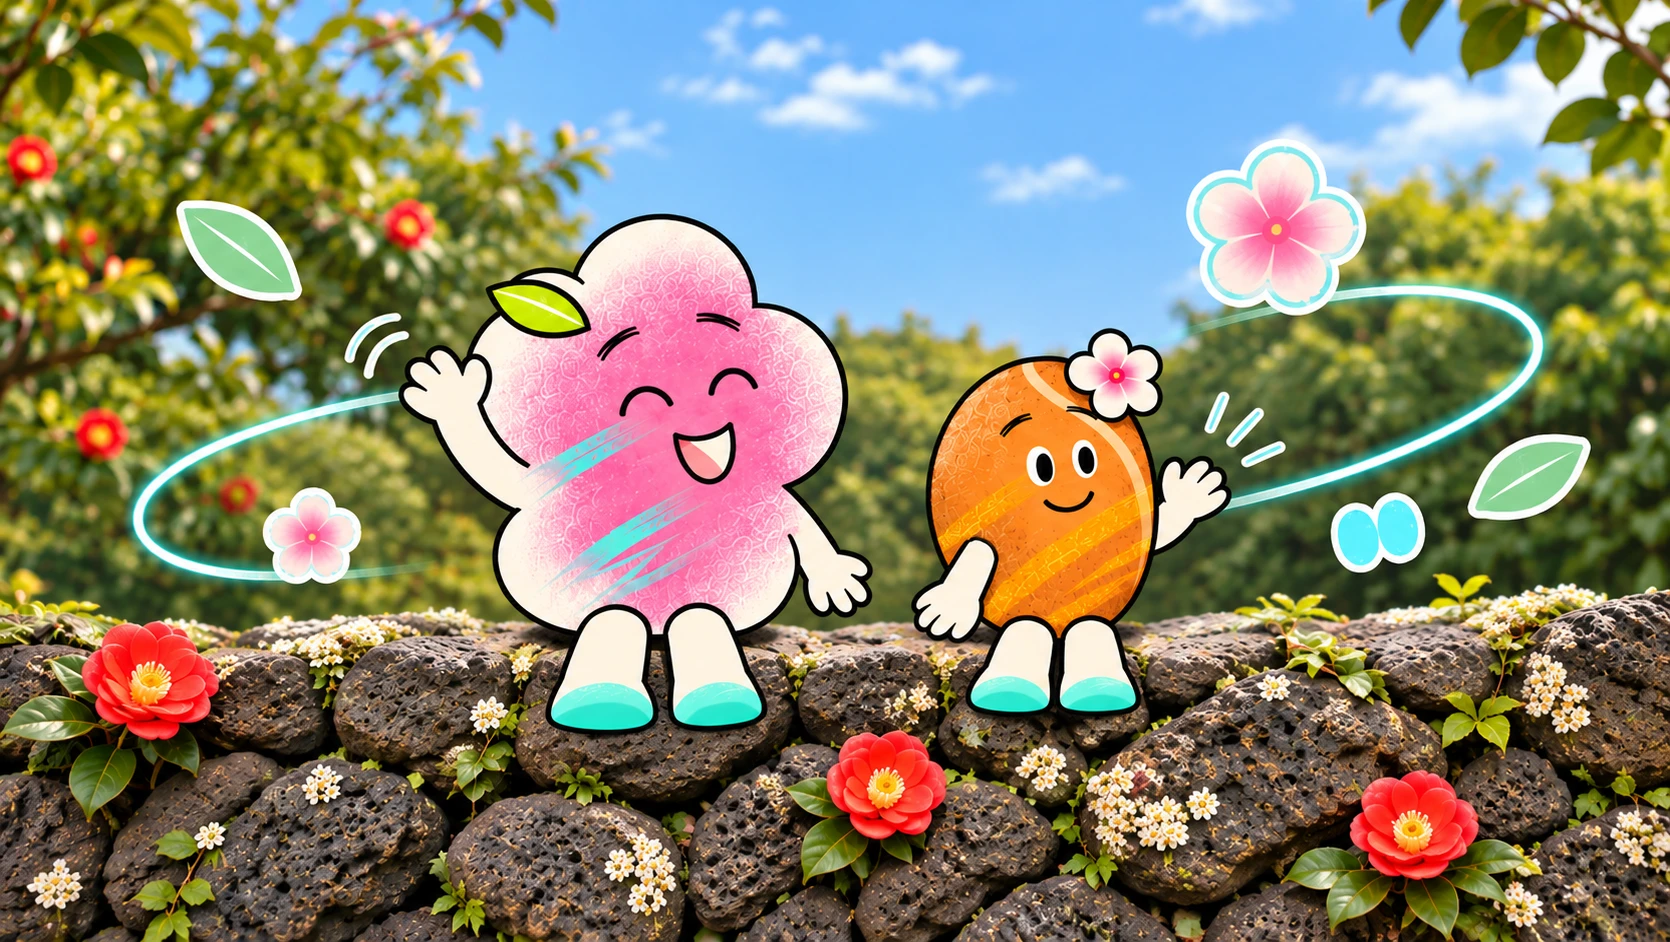
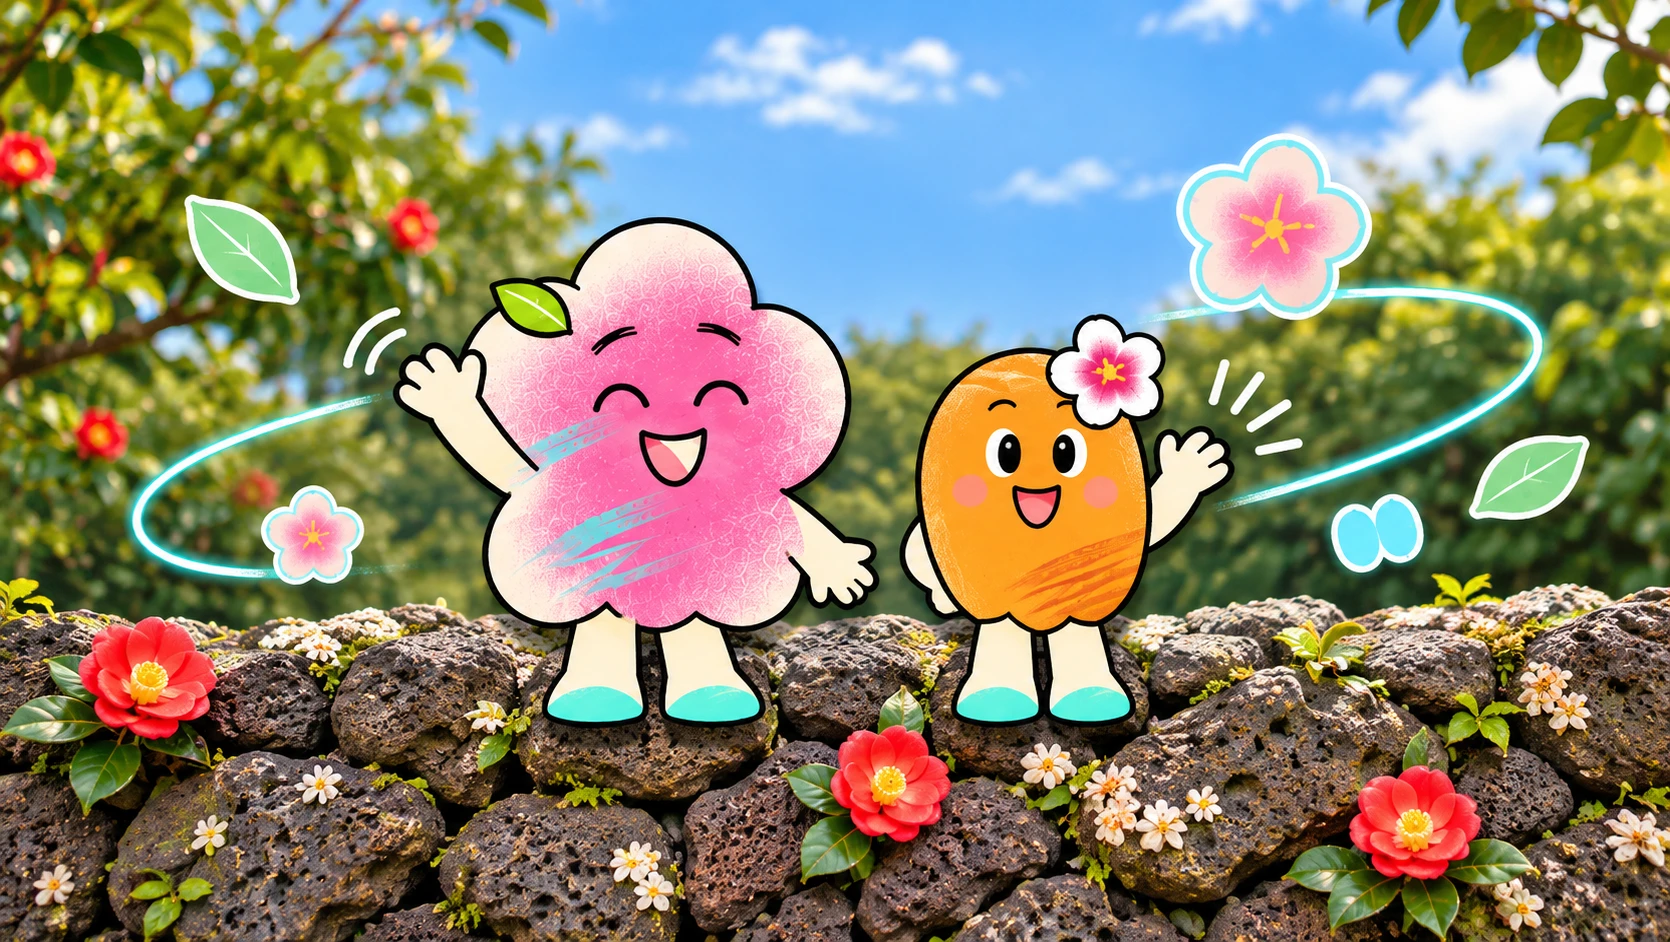
섹션 문구·순서 정리, 체험·캐릭터 이미지 교체
- 섹션 순서: 체험을 굿즈 앞으로 (헤더 메뉴 포함)
- 방문 안내: BLOOM YOUR WAY POP-UP 카드와 관련 문구 삭제, 지도 안내만 유지
- 동백마을: 제목 마침표 삭제, 피오·토리 이름 핑크·소개 본문색, 안내 문구 볼드, 새 돌담 이미지(테두리 디졸브 없이)
- 체험: 동백오일 만들기(토리), 고사리 파스타(피오) 이미지 교체
- 굿즈: 상단 피오 삭제, 제목 "오직 동백마을에서 만나는 콜라보 한정판 굿즈", 설명 문구 변경
- 콜라보: 굿즈 문구 제목을 작게·핑크로, "A2O LITE"에 네온 빛 추가

diff --git a/lib/bloom/content.ts b/lib/bloom/content.ts
@@ -66,7 +66,7 @@ export const ui = {
   story: {
     eyebrow: { ko: "DONGBAEK VILLAGE", en: "DONGBAEK VILLAGE" },
     place: { ko: "제주 · 동백마을", en: "Jeju · Dongbaek Village" },
-    title: { ko: "FIND YOUR BLOOM.", en: "FIND YOUR BLOOM." },
+    title: { ko: "FIND YOUR BLOOM", en: "FIND YOUR BLOOM" },
     lead: {
       ko: "제주에서 너만의 동백을 발견해.",
       en: "Discover your own camellia in Jeju.",
@@ -98,12 +98,12 @@ export const ui = {
   goods: {
     eyebrow: { ko: "LIMITED GOODS", en: "LIMITED GOODS" },
     title: {
-      ko: "오직 제주 동백마을에서 만나는 협업 한정판.",
-      en: "A limited collab, only at Jeju's Dongbaek Village.",
+      ko: "오직 동백마을에서 만나는 콜라보 한정판 굿즈",
+      en: "Limited collab goods, only in Dongbaek Village",
     },
     sub: {
-      ko: "굿즈만 만나도, 마을에 더 머물러도. 너의 방식대로.",
-      en: "Just the goods, or a longer stay in the village. Your way.",
+      ko: "동백마을 X A2O LITE의 NEON 그래픽을 담은 한정판 굿즈를 만나 보세요.",
+      en: "Meet the limited goods carrying the 동백마을 X A2O LITE NEON graphics.",
     },
     more: { ko: "자세히 보기", en: "View details" },
     zoomHint: { ko: "이미지를 눌러 확대", en: "Tap image to zoom" },
@@ -146,31 +146,6 @@ export const ui = {
   visit: {
     eyebrow: { ko: "VISIT DONGBAEK VILLAGE", en: "VISIT DONGBAEK VILLAGE" },
     title: { ko: "동백마을로 놀러 와.", en: "Come visit Dongbaek Village." },
-    popupName: { ko: "BLOOM YOUR WAY POP-UP", en: "BLOOM YOUR WAY POP-UP" },
-    notice: {
-      ko: "아래 일정과 장소는 캠페인 기획 기준이며, 실제 운영 정보는 확인이 필요해요.",
-      en: "The schedule and venue below are from the campaign plan and still need confirmation.",
-    },
-    badge: { ko: "확인 필요", en: "To be confirmed" },
-    period: { ko: "기간", en: "Dates" },
-    periodValue: { ko: "2026.10.30 – 11.30", en: "Oct 30 – Nov 30, 2026" },
-    hours: { ko: "운영 시간", en: "Hours" },
-    hoursValue: {
-      ko: "매일 11:00 – 18:00 (입장 마감 17:30)",
-      en: "Daily 11:00 – 18:00 (last entry 17:30)",
-    },
-    venue: { ko: "장소", en: "Venue" },
-    venueValue: { ko: "제주 동백마을 BLOOM HOUSE", en: "BLOOM HOUSE, Dongbaek Village, Jeju" },
-    goodsAt: { ko: "굿즈 판매", en: "Goods" },
-    goodsAtValue: {
-      ko: "팝업 현장 한정 판매 (상세 확정 후 안내)",
-      en: "On-site only at the pop-up (details TBA)",
-    },
-    programs: { ko: "체험 프로그램", en: "Programs" },
-    programsValue: {
-      ko: "동백꽃잎차 명상 · 동백오일 만들기 · 고사리 파스타",
-      en: "Camellia tea meditation · Camellia oil making · Bracken pasta",
-    },
     howTitle: { ko: "찾아오는 방법", en: "Getting there" },
     howBody: {
       ko: "제주 동백마을은 외부 지도에서 위치를 확인할 수 있어요. 세부 교통 안내는 확정 후 공개됩니다.",
@@ -353,10 +328,10 @@ export const experiences: Experience[] = [
   {
     id: "oil",
     topic: "experience",
-    img: "/bloom/exp/oil-v2.png",
+    img: "/bloom/exp/oil-v3.png",
     alt: {
-      ko: "동백나무 아래 테이블에서 피오·토리와 함께 동백씨앗을 고르는 동백오일 만들기 체험 장면",
-      en: "Sorting camellia seeds with Pio and Tori at a table under camellia trees, for oil making",
+      ko: "동백나무 아래 테이블에서 토리와 함께 동백씨앗을 고르는 동백오일 만들기 체험 장면",
+      en: "Sorting camellia seeds with Tori at a table under camellia trees, for oil making",
     },
     name: { ko: "동백오일 만들기", en: "Camellia Oil Making" },
     short: {
@@ -374,10 +349,10 @@ export const experiences: Experience[] = [
   {
     id: "pasta",
     topic: "experience",
-    img: "/bloom/exp/pasta.png",
+    img: "/bloom/exp/pasta-v2.png",
     alt: {
-      ko: "피오·토리와 함께 고사리 파스타를 요리하는 쿠킹 클래스 장면",
-      en: "Cooking bracken pasta with Pio and Tori in a cooking class",
+      ko: "제주 돌집 주방에서 피오와 함께 고사리 파스타를 요리하는 쿠킹 클래스 장면",
+      en: "Cooking bracken pasta with Pio in a Jeju stone-house kitchen",
     },
     name: { ko: "고사리 파스타 쿠킹 클래스", en: "Bracken Pasta Cooking Class" },
     short: {

diff --git a/components/bloom/Visit.tsx b/components/bloom/Visit.tsx
@@ -9,14 +9,6 @@ export default function Visit() {
   const { lang } = useBloom();
   const v = ui.visit;
 
-  const rows = [
-    [v.period, v.periodValue],
-    [v.hours, v.hoursValue],
-    [v.venue, v.venueValue],
-    [v.goodsAt, v.goodsAtValue],
-    [v.programs, v.programsValue],
-  ] as const;
-
   return (
     <section id="visit" aria-labelledby="visit-title" className="relative overflow-hidden bg-grass px-5 py-14 text-cream-head md:px-10 md:py-24">
       <Image
@@ -32,30 +24,10 @@ export default function Visit() {
         {v.title[lang]}
       </h2>
 
-      <div className="md:mt-10 md:grid md:grid-cols-[3fr_2fr] md:items-start md:gap-6">
-      <div className="relative mt-7 rounded-[28px] bg-cream-light p-5 text-ink md:mt-0 md:p-8">
-        <div className="flex items-start justify-between gap-3">
-          <p className="font-display text-xl leading-tight text-pink-deep md:text-2xl">{v.popupName[lang]}</p>
-          <span className="shrink-0 rounded-full bg-limited px-2.5 py-1 text-[11px] font-bold">
-            {v.badge[lang]}
-          </span>
-        </div>
-        <p className="mt-2 text-[12px] leading-5 text-ink/60">{v.notice[lang]}</p>
-
-        <dl className="mt-4 divide-y divide-ink/10 border-t border-ink/10 text-sm">
-          {rows.map(([k, val]) => (
-            <div key={k.en} className="flex gap-3 py-3 md:gap-6 md:py-4 md:text-[15px]">
-              <dt className="w-20 shrink-0 font-bold text-ink/60 md:w-28">{k[lang]}</dt>
-              <dd className="text-ink/85">{val[lang]}</dd>
-            </div>
-          ))}
-        </dl>
-      </div>
-
-      <div className="relative mt-4 rounded-[28px] bg-forest/60 p-5 ring-1 ring-cream-head/15 md:mt-0 md:p-8">
+      <div className="relative mt-7 max-w-2xl rounded-[28px] bg-forest/60 p-5 ring-1 ring-cream-head/15 md:mt-10 md:p-8">
         <h3 className="font-display text-lg md:text-2xl">{v.howTitle[lang]}</h3>
         <p className="mt-1.5 text-[13px] leading-5 text-cream-head/80 md:mt-3 md:text-sm md:leading-6">{v.howBody[lang]}</p>
-        <div className="mt-4 grid gap-2.5">
+        <div className="mt-4 grid gap-2.5 md:grid-cols-2">
           {(
             [
               ["google", v.google],
@@ -80,7 +52,6 @@ export default function Visit() {
             </a>
           ))}
         </div>
-      </div>
       </div>
       </div>
     </section>

diff --git a/components/bloom/Story.tsx b/components/bloom/Story.tsx
@@ -44,12 +44,12 @@ export default function Story() {
             <p className="mt-5 text-[15px] leading-7 text-cream-head/80 md:text-base md:leading-8">{s.body[lang]}</p>
 
             <div className="mt-4 md:mt-5">
-              <p className="text-[13px] text-cream-head/70 md:text-sm">{f.sub[lang]}</p>
+              <p className="text-[13px] font-bold text-cream-head/90 md:text-sm">{f.sub[lang]}</p>
               <ul className="mt-3 space-y-2">
                 {friends.map(({ key, data }) => (
                   <li key={key} className="flex flex-wrap items-baseline gap-x-2.5 gap-y-0.5">
-                    <span className="font-display text-sm text-cream-head">{data.name[lang]}</span>
-                    <span className="text-xs font-bold text-pink">{data.tagline[lang]}</span>
+                    <span className="font-display text-sm text-pink">{data.name[lang]}</span>
+                    <span className="text-xs text-cream-head/80">{data.tagline[lang]}</span>
                   </li>
                 ))}
               </ul>
@@ -64,14 +64,14 @@ export default function Story() {
   );
 }
 
-/** 제주 돌담 위에 앉아 인사하는 피오·토리 일러스트 */
+/** 제주 돌담 위 피오·토리 일러스트 */
 function FriendsImage({ alt, className }: { alt: string; className: string }) {
   return (
     <div
-      className={`relative aspect-[1670/942] overflow-hidden rounded-[28px] ring-1 ring-cream-head/10 md:rounded-[36px] ${className}`}
+      className={`relative aspect-[1670/942] overflow-hidden rounded-[28px] md:rounded-[36px] ${className}`}
     >
       <Image
-        src="/bloom/chars/friends-stonewall-v2.jpg"
+        src="/bloom/chars/friends-stonewall-v3.jpg"
         alt={alt}
         fill
         sizes="(min-width: 768px) 50vw, 100vw"

diff --git a/components/bloom/Goods.tsx b/components/bloom/Goods.tsx
@@ -16,22 +16,14 @@ export default function Goods() {
 
   return (
     <section id="goods" aria-labelledby="goods-title" className="relative overflow-hidden bg-cream-light py-14 md:py-24">
-      <div className="pr-20 pl-5 md:mx-auto md:max-w-6xl md:pr-10 md:pl-10">
+      <div className="px-5 md:mx-auto md:max-w-6xl md:px-10">
         <Eyebrow>{g.eyebrow[lang]}</Eyebrow>
-        <h2 id="goods-title" className="mt-3 font-display text-[28px] leading-tight text-ink md:max-w-2xl md:text-4xl">
+        <h2 id="goods-title" className="mt-3 font-display text-[28px] leading-tight text-ink md:text-4xl">
           {g.title[lang]}
         </h2>
         <p className="mt-2 text-sm text-ink/65 md:mt-3 md:text-base">{g.sub[lang]}</p>
       </div>
 
-      {/* 가장자리에서 안내하는 피오·토리 (제품을 가리지 않도록 헤더 옆에 배치) */}
-      <Image
-        src="/bloom/chars/pio-surprise.png"
-        alt=""
-        width={307}
-        height={386}
-        className="pointer-events-none absolute top-4 -right-5 h-[92px] w-auto rotate-[-8deg] md:top-16 md:right-[5%] md:h-[140px]"
-      />
 
       <ul className="no-scrollbar mt-7 flex snap-x snap-mandatory gap-3.5 overflow-x-auto px-5 pb-3 md:mx-auto md:mt-12 md:grid md:max-w-6xl md:grid-cols-3 md:gap-6 md:overflow-visible md:px-10 md:pb-0">
         {goods.map((p) => (

diff --git a/components/bloom/Collab.tsx b/components/bloom/Collab.tsx
@@ -120,11 +120,11 @@ function InlineGlow({
   );
 }
 
-/** 문장 속 "A2O LITE"만 브랜드 핑크로 */
+/** 문장 속 "A2O LITE"만 브랜드 핑크 + 네온 빛 */
 function highlightA2O(text: string) {
   return text.split(/(A2O LITE)/).map((part, i) =>
     part === "A2O LITE" ? (
-      <span key={i} className="text-pink">
+      <span key={i} className="neon-text text-pink">
         {part}
       </span>
     ) : (
@@ -206,7 +206,7 @@ export default function Collab() {
         <GlowBand spots={BAND_MID} className="h-28 md:h-36" />
 
         <div className="max-w-xl lg:mt-20 lg:max-w-[30rem]">
-          <h3 className="flex items-center gap-2 font-display text-xl md:text-3xl">
+          <h3 className="flex items-center gap-2 font-display text-base text-pink md:text-xl">
             {c.goodsTitle[lang]}
             <InlineGlow g={G.flower} size="w-7 md:w-10" delay={0.6} />
           </h3>

diff --git a/components/bloom/Header.tsx b/components/bloom/Header.tsx
@@ -4,7 +4,7 @@ import Image from "next/image";
 import { useBloom } from "./BloomContext";
 import { ui } from "@/lib/bloom/content";
 
-const NAV = ["collab", "story", "goods", "experiences", "visit", "notify"] as const;
+const NAV = ["collab", "story", "experiences", "goods", "visit", "notify"] as const;
 
 export default function Header({ authMenu }: { authMenu?: React.ReactNode }) {
   const { lang, setLang } = useBloom();

diff --git a/components/bloom/BloomLanding.tsx b/components/bloom/BloomLanding.tsx
@@ -22,8 +22,8 @@ export default function BloomLanding({ authMenu }: { authMenu?: React.ReactNode 
           <Hero />
           <Collab />
           <Story />
-          <Goods />
           <Experiences />
+          <Goods />
           <Visit />
           <Notify />
         </main>
